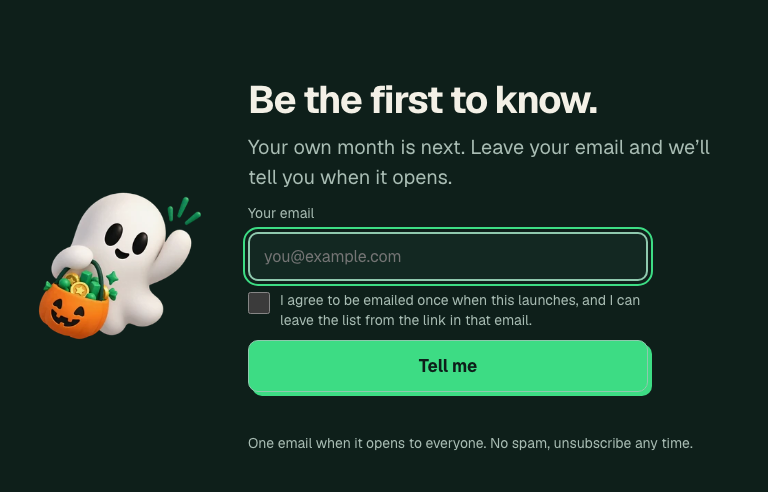
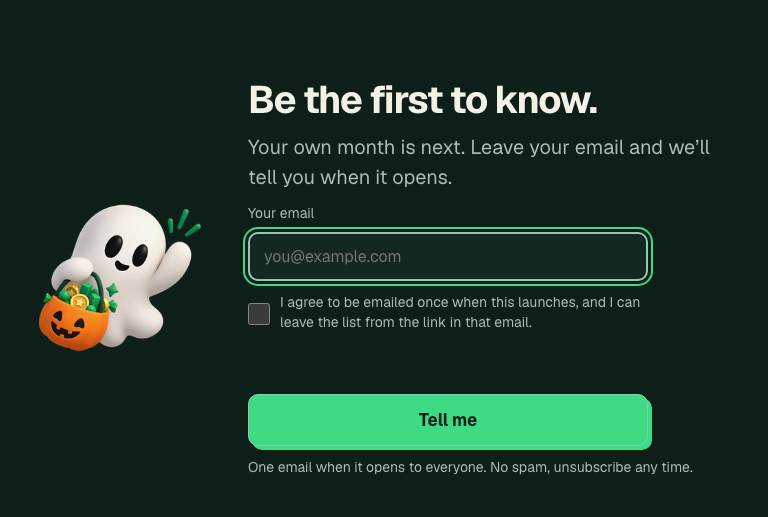
Consent form: 44px tap row, error under the checkbox with aria-describedby, reserved status height, clear aria-invalid on tick
Design gate findings from Oscar3 on f5ba50c. No test changed.

diff --git a/src/signup.ts b/src/signup.ts
@@ -30,6 +30,7 @@ function openOurForm(opener: HTMLButtonElement): void {
   const wrap = field<HTMLDivElement>("div", { className: "lead-trap" });
   wrap.append(trap);
   const agree = field<HTMLInputElement>("input", { id: "lead-consent", type: "checkbox", name: "consent", checked: false });
+  agree.setAttribute("aria-describedby", "lead-status");
   const agreeLabel = field<HTMLLabelElement>("label", { htmlFor: "lead-consent", textContent: CONSENT });
   const consent = field<HTMLDivElement>("div", { className: "lead-consent" });
   consent.append(agree, agreeLabel);
@@ -37,10 +38,11 @@ function openOurForm(opener: HTMLButtonElement): void {
   const status = field<HTMLParagraphElement>("p", { className: "lead-status", id: "lead-status" });
   status.setAttribute("role", "alert");
   const form = field<HTMLFormElement>("form", { className: "lead-form", noValidate: true });
-  form.append(label, email, consent, wrap, send, status);
+  form.append(label, email, consent, status, wrap, send);
   opener.replaceWith(form);
   email.focus();
 
+  agree.addEventListener("change", () => { if (agree.checked) agree.removeAttribute("aria-invalid"); });
   const say = (words: string, kind: "good" | "bad") => { status.textContent = words; status.dataset.kind = kind; };
   form.addEventListener("submit", async (e) => {
     e.preventDefault();

diff --git a/src/signup.css b/src/signup.css
@@ -4,9 +4,9 @@
 .lead-form input[type="email"]:focus-visible { outline: 2px solid var(--green-ink); outline-offset: 3px; }
 .lead-form label { font-size: 14px; color: var(--secondary); }
 .lead-form .lead-trap { position: absolute; left: -10000px; width: 1px; height: 1px; overflow: hidden; }
-.lead-status { font-size: 14px; color: var(--secondary); min-height: 1.4em; }
+.lead-status { font-size: 14px; color: var(--secondary); min-height: 2.8em; line-height: 1.4; }
 .lead-status[data-kind="bad"] { color: var(--ink); font-weight: 600; }
-.lead-consent { display: grid; grid-template-columns: auto 1fr; gap: 10px; align-items: start; }
+.lead-consent { display: grid; grid-template-columns: auto 1fr; gap: 10px; align-items: center; min-height: 44px; }
 .lead-consent input[type="checkbox"] { width: 22px; height: 22px; margin: 1px 0 0; accent-color: var(--green-ink); }
 .lead-consent input[type="checkbox"]:focus-visible { outline: 2px solid var(--green-ink); outline-offset: 3px; }
 .lead-consent input[type="checkbox"][aria-invalid="true"] { outline: 2px solid var(--ink); outline-offset: 3px; }
